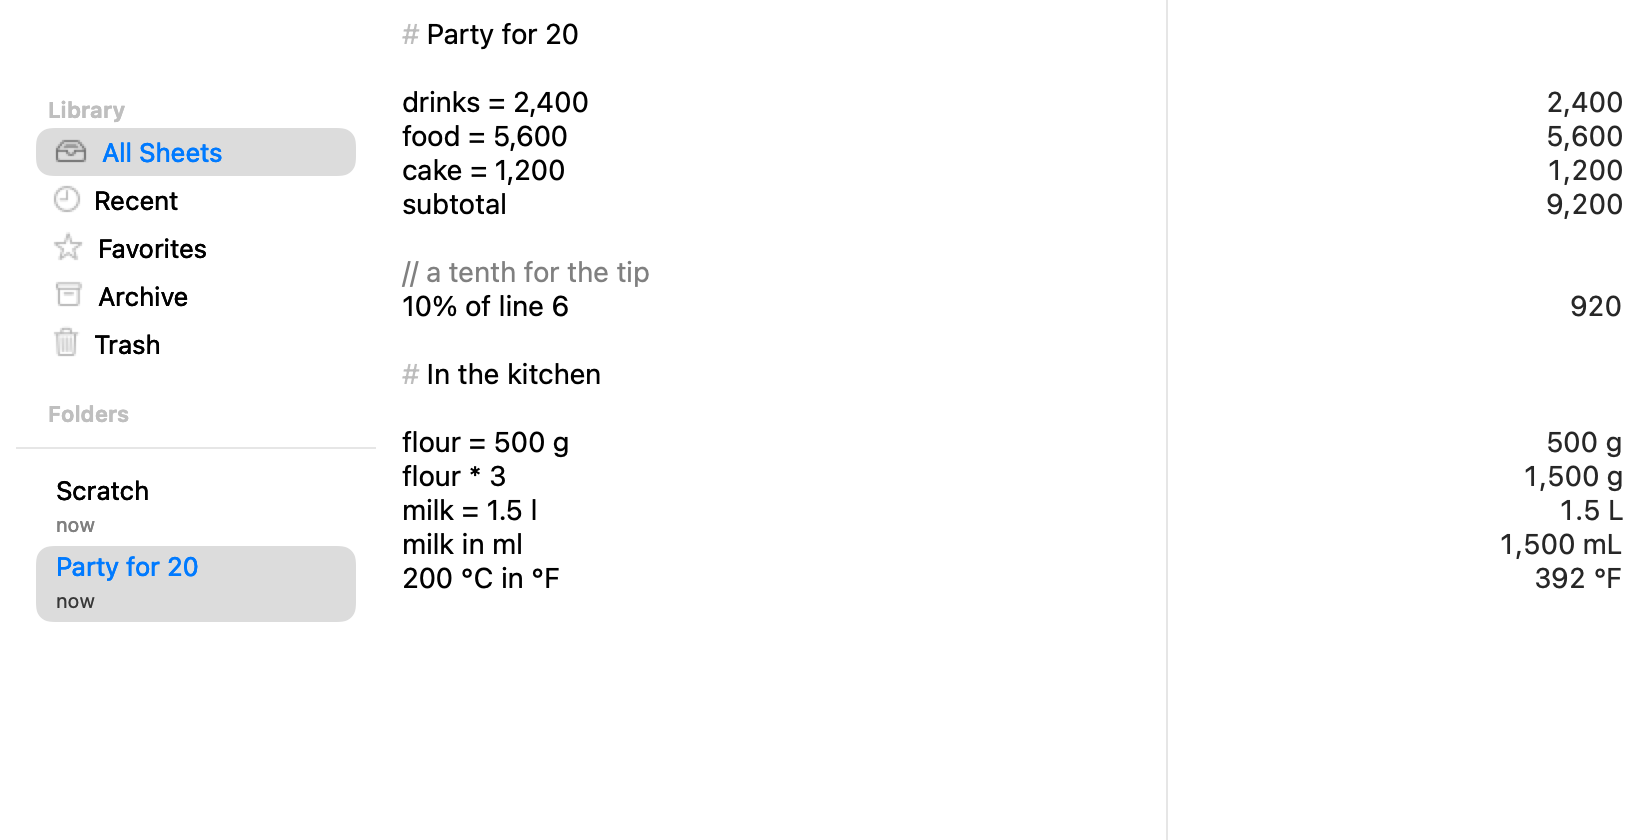
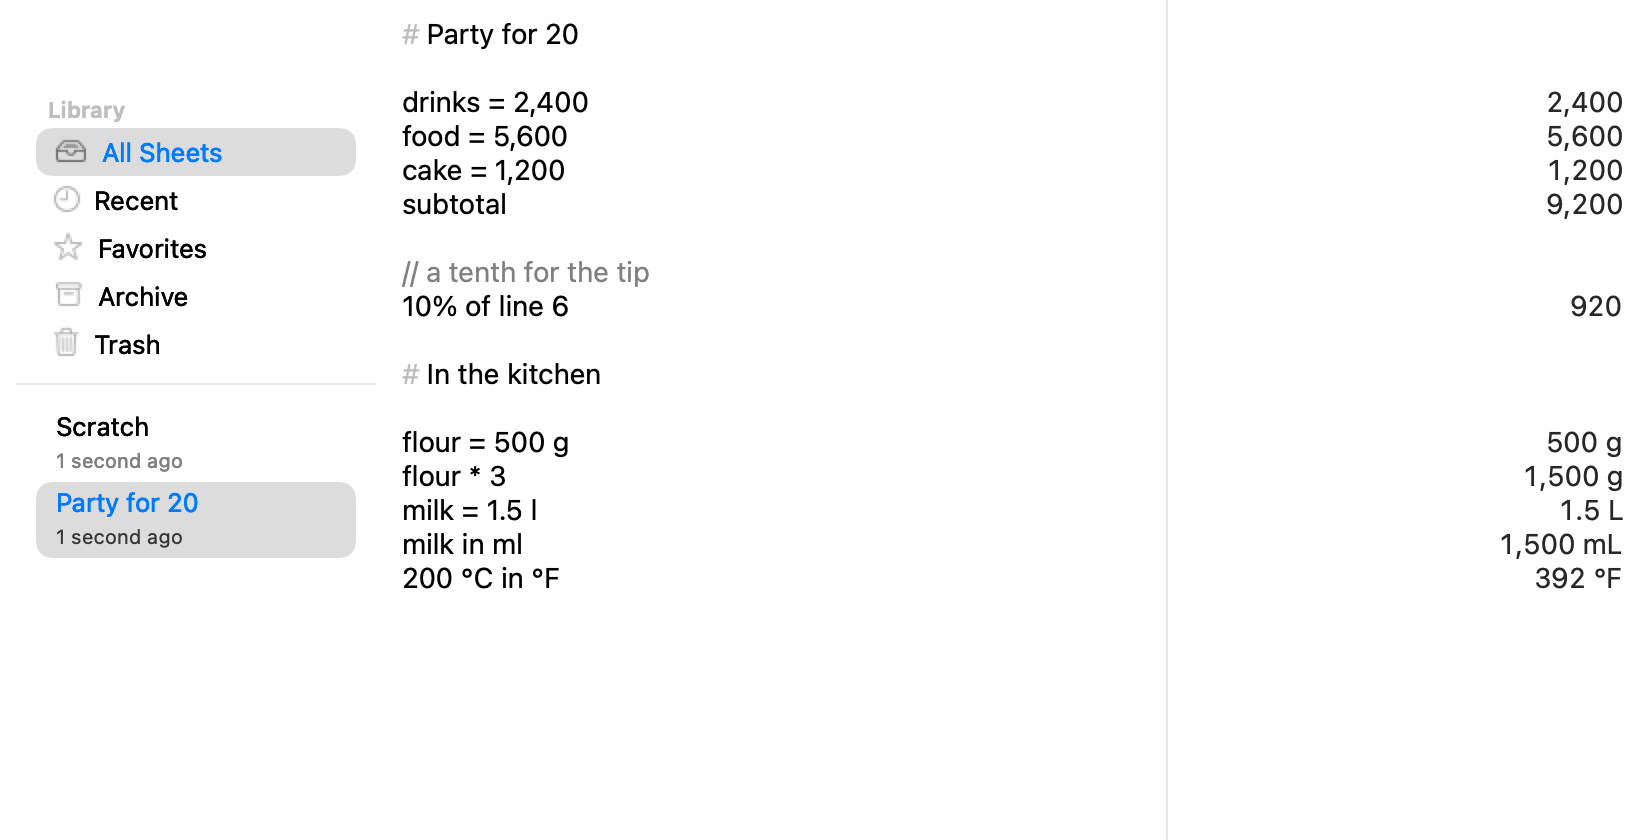
Name the folders only once there are some

Changed region(s): [[0.0, 0.4643, 0.2177, 0.7429]]

diff --git a/Tests/GanitWorkspaceUITests/WorkspaceWindowControllerTests.swift b/Tests/GanitWorkspaceUITests/WorkspaceWindowControllerTests.swift
@@ -36,6 +36,28 @@ struct WorkspaceWindowControllerTests {
     #expect(Set(controller.sidebar.sheets.map(\.id)) == Set([SheetLibrary.scratchID] + ids))
   }
 
+  /// An empty "Folders" heading sits immediately above the list of sheets,
+  /// where it reads as though the sheets beneath it were the folders.
+  @Test
+  func namesTheFoldersOnlyOnceThereAreSome() throws {
+    let (workspace, ids) = try makeWorkspace([""])
+    defer { close(workspace) }
+    let controller = workspace.openWindow(showing: ids[0])
+    let outline = controller.sidebar.collectionsView
+    let rows = {
+      (0..<outline.numberOfRows).compactMap {
+        (outline.view(atColumn: 0, row: $0, makeIfNecessary: true) as? NSTableCellView)?
+          .textField?.stringValue
+      }
+    }
+    let collections = ["Library", "All Sheets", "Recent", "Favorites", "Archive", "Trash"]
+
+    #expect(rows() == collections)
+    _ = try workspace.library.createFolder(named: "Travel")
+    controller.sidebar.reload()
+    #expect(rows() == collections + ["Folders", "Travel"])
+  }
+
   @Test
   func fitsSidebarSourceAndAnswersAtMinimumSizeAndSupportsFullScreen() throws {
     let (workspace, ids) = try makeWorkspace(["monthly rent = 2,100\nmonthly rent * 12"])

diff --git a/Sources/GanitWorkspaceUI/SidebarViewController.swift b/Sources/GanitWorkspaceUI/SidebarViewController.swift
@@ -131,7 +131,9 @@ final class SidebarViewController: NSViewController {
       localized("sidebar.folders", "Folders"),
       children: folders.map { SidebarItem($0.name, VisualStyle.Symbol.folder, .folder($0.id)) }
     )
-    items = [library, folderItems]
+    // A "Folders" heading with nothing under it sits directly above the list
+    // of sheets, and reads as though the sheets were the folders.
+    items = folders.isEmpty ? [library] : [library, folderItems]
     collectionsView.reloadData()
     for item in items {
       collectionsView.expandItem(item)

diff --git a/docs/workspace/library.md b/docs/workspace/library.md
@@ -7,7 +7,8 @@ Sheet, and sheet search. The title is the open sheet's title.
 ## Sidebar
 
 The upper list holds collections: **All Sheets**, **Recent** (modified in the last
-seven days), **Favorites**, **Archive**, **Trash**, and user **Folders**. It sizes to
+seven days), **Favorites**, **Archive**, **Trash**, and, once there is one to
+name, user **Folders**. It sizes to
 its rows and scrolls past 60% of the sidebar. The lower list shows the selected
 collection's sheets, most recently modified first, with each title and a
 relative modification time; toolbar search narrows it to sheets whose title or
